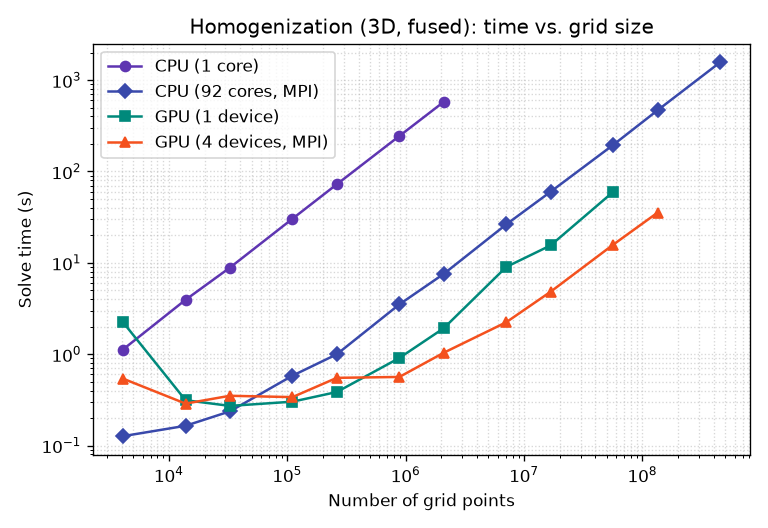
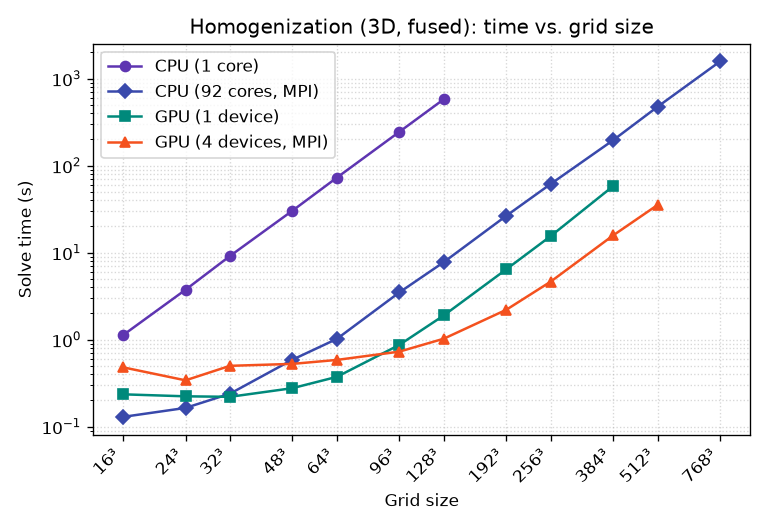
DOC: Updated benchmark scripts

diff --git a/examples/benchmark_homogenization_preconditioner.py b/examples/benchmark_homogenization_preconditioner.py
@@ -100,15 +100,10 @@ def run(device, precond, n, dim, maxiter, tol, nranks=1):
                 secs=r["total_time_seconds"])
 
 
-def collect(args, prov):
-    """Run both studies; return DB rows (does not write)."""
-    _, nb_gpus = db.detect_gpu()
-    want_gpu = not args.no_gpu and nb_gpus >= 1
-    configs = db.plan_configs(args.mpi_cpu_ranks, nb_gpus, want_gpu)
-    rows = []
+def collect_iterations(args, prov):
+    """Study `iterations`: CG count, none vs reference, on a single CPU core."""
     common = dict(maxiter=args.maxiter, tol=args.tol, dim=args.dim)
-
-    # Study 1: iterations (none vs reference), serial CPU.
+    rows = []
     for n in args.iter_sizes:
         for P in ("none", "reference"):
             r = run("cpu", P, n, args.dim, args.maxiter, args.tol)
@@ -121,12 +116,23 @@ def collect(args, prov):
                          "iters": r["iters"], "secs": r["secs"]})
             sys.stderr.write(f"  iter {P:9s} {n}^{args.dim} ({r['npts']} pts): "
                              f"{r['iters']:5d} it, {r['secs']:.3f} s\n")
+    return rows
 
-    # Study 2: reference-solve time across device/MPI configs. Each config
-    # sweeps grid sizes up to its own cap (a single CPU core tops out far sooner
-    # than the full node / the GPUs) and stops at the first out-of-memory size,
-    # which is recorded as an "oom" point (flagged in the table, dropped from the
-    # plot); larger sizes for that config are not attempted.
+
+def collect_timing(args, prov):
+    """Study `reference_timing`: reference-solve time across device/MPI configs.
+
+    Each config sweeps grid sizes up to its own cap (a single CPU core tops out
+    far sooner than the full node / the GPUs) and stops at the first
+    out-of-memory size, which is recorded as an "oom" point (flagged in the
+    table, dropped from the plot); larger sizes for that config are not
+    attempted.
+    """
+    _, nb_gpus = db.detect_gpu()
+    want_gpu = not args.no_gpu and nb_gpus >= 1
+    configs = db.plan_configs(args.mpi_cpu_ranks, nb_gpus, want_gpu)
+    common = dict(maxiter=args.maxiter, tol=args.tol, dim=args.dim)
+    rows = []
     for key, device, nranks in configs:
         label = db.CONFIG_META[key]["label"](nranks)
         cap = args.cpu1_max_size if key == "cpu1" else args.max_size
@@ -149,6 +155,16 @@ def collect(args, prov):
                          "iters": r["iters"], "secs": r["secs"]})
             sys.stderr.write(f"  time {label} {n}^{args.dim} ({r['npts']} pts): "
                              f"{r['iters']} it, {r['secs']:.3f} s\n")
+    return rows
+
+
+def collect(args, prov):
+    """Run the selected studies (`args.studies`); return DB rows (no write)."""
+    rows = []
+    if "iterations" in args.studies:
+        rows += collect_iterations(args, prov)
+    if "reference_timing" in args.studies:
+        rows += collect_timing(args, prov)
     return rows
 
 
@@ -404,6 +420,16 @@ def main():
     ap.add_argument("--no-gpu", action="store_true", help="Skip the GPU curves")
     ap.add_argument("--maxiter", type=int, default=20000)
     ap.add_argument("--tol", type=float, default=1e-6)
+    ap.add_argument("--studies", nargs="+",
+                    choices=["iterations", "reference_timing"],
+                    default=["iterations", "reference_timing"],
+                    help="Which studies to MEASURE (collection only). "
+                         "`iterations` = none-vs-reference CG count (1 CPU "
+                         "core); `reference_timing` = device/MPI solve-time "
+                         "scaling. Rendering always uses whatever is in the DB.")
+    ap.add_argument("--collect-only", action="store_true",
+                    help="Measure and append to the database, then stop "
+                         "(no plots/page — render later with --render-only)")
     ap.add_argument("--render-only", action="store_true",
                     help="Skip running; render from the database")
     ap.add_argument("--timestamp", default=None,
@@ -423,15 +449,23 @@ def main():
             sys.exit("No successful runs — nothing to record.")
         db.append_rows(rows, args.db)
         sys.stderr.write(f"appended {len(rows)} rows to {args.db}\n")
+        if args.collect_only:
+            return
         select_ts = prov["timestamp"]
     else:
         select_ts = args.timestamp
 
-    rows = db.select(db.load(args.db), BENCHMARK, select_ts)
+    # Take the latest run of EACH study independently, so the page combines the
+    # iteration-count study and the timing study even when they were measured by
+    # separate jobs (the two are split across separate submission scripts).
+    rows = db.select_studies(db.load(args.db), BENCHMARK,
+                             ["iterations", "reference_timing"], select_ts)
     if not rows:
         sys.exit("No matching rows in the database.")
 
-    meta = {k: rows[0][k] for k in ("cpu", "gpu", "version", "timestamp")}
+    # Machine/version box: prefer the (heavier) timing run when present.
+    meta_rows = [r for r in rows if r["study"] == "reference_timing"] or rows
+    meta = {k: meta_rows[0][k] for k in ("cpu", "gpu", "version", "timestamp")}
     dim = next((r["dim"] for r in rows), args.dim)
     tol = next((r["tol"] for r in rows if r["study"] == "iterations"), args.tol)
     configs = db.render_configs(rows, "reference_timing")

diff --git a/examples/benchmark_db.py b/examples/benchmark_db.py
@@ -210,12 +210,21 @@ CONFIG_ORDER = ["cpu1", "cpuN", "gpu1", "gpuN"]
 
 
 def plan_configs(ncores, nb_gpus, want_gpu):
-    """Configs to RUN on this machine: list of (key, device, nranks)."""
-    cfgs = [("cpu1", "cpu", 1), ("cpuN", "cpu", ncores)]
-    if want_gpu and nb_gpus >= 1:
-        cfgs.append(("gpu1", "gpu", 1))
+    """Configs to RUN on this machine, FASTEST FIRST: list of (key, device,
+    nranks).
+
+    Ordered multi-GPU, single GPU, full-node MPI, single CPU core — so the
+    quickest configurations are measured first and the slow single core (the one
+    most likely to be cut off by a wall-clock limit) comes last. Rendering
+    re-sorts by `CONFIG_ORDER`, so this only affects execution order.
+    """
+    cfgs = []
     if want_gpu and nb_gpus > 1:
         cfgs.append(("gpuN", "gpu", nb_gpus))
+    if want_gpu and nb_gpus >= 1:
+        cfgs.append(("gpu1", "gpu", 1))
+    cfgs.append(("cpuN", "cpu", ncores))
+    cfgs.append(("cpu1", "cpu", 1))
     return cfgs
 
 
@@ -344,3 +353,27 @@ def select(rows, benchmark, timestamp=None):
         target = max(r["timestamp"] for r in sub)
         return [r for r in sub if r["timestamp"] == target]
     return [r for r in sub if r["timestamp"].startswith(timestamp)]
+
+
+def select_studies(rows, benchmark, studies, timestamp=None):
+    """Rows for the given studies of a benchmark, each from its OWN latest run.
+
+    Unlike `select`, which pins every row to a single run, this picks the most
+    recent run *per study* independently (or, with `timestamp`, the run whose
+    timestamp starts with the given string). A page that combines several
+    studies (e.g. the preconditioner's iteration-count and timing studies) can
+    therefore show the freshest data for each, even when the studies were
+    measured by separate jobs that ran at different times.
+    """
+    out = []
+    for study in studies:
+        sub = [r for r in rows
+               if r["benchmark"] == benchmark and r["study"] == study]
+        if not sub:
+            continue
+        if timestamp is None:
+            target = max(r["timestamp"] for r in sub)
+            out.extend(r for r in sub if r["timestamp"] == target)
+        else:
+            out.extend(r for r in sub if r["timestamp"].startswith(timestamp))
+    return out

diff --git a/examples/benchmark_homogenization.py b/examples/benchmark_homogenization.py
@@ -326,6 +326,9 @@ def main():
                     help="Ranks for the full-machine MPI CPU curve")
     ap.add_argument("--no-gpu", action="store_true", help="Skip the GPU curves")
     ap.add_argument("--maxiter", type=int, default=100)
+    ap.add_argument("--collect-only", action="store_true",
+                    help="Measure and append to the database, then stop "
+                         "(no plot/page — render later with --render-only)")
     ap.add_argument("--render-only", action="store_true",
                     help="Skip running; render from the database")
     ap.add_argument("--timestamp", default=None,
@@ -345,6 +348,8 @@ def main():
             sys.exit("No successful runs — nothing to record.")
         db.append_rows(rows, args.db)
         sys.stderr.write(f"appended {len(rows)} rows to {args.db}\n")
+        if args.collect_only:
+            return
         select_ts = prov["timestamp"]
     else:
         select_ts = args.timestamp

diff --git a/benchmarks/README.md b/benchmarks/README.md
@@ -41,21 +41,42 @@ Current `benchmark`/`study` values:
 
 ## Workflow
 
+Measuring (which appends a new dated run to the DB) and rendering the pages are
+**separate steps**, and the measurements are split into three independent cases,
+one SLURM job each:
+
+| script | case | study appended |
+|---|---|---|
+| `job_compare_preconditioner.sh` | unpreconditioned vs reference, CG iteration count (1 CPU core) | `homogenization_preconditioner` / `iterations` |
+| `job_scaling_unpreconditioned.sh` | unpreconditioned solve time, device/MPI scaling | `homogenization` / `time_vs_size` |
+| `job_scaling_preconditioned.sh` | reference-preconditioned solve time, device/MPI scaling | `homogenization_preconditioner` / `reference_timing` |
+
 ```bash
-# Measure (appends a new dated run) and regenerate the page:
-python examples/benchmark_homogenization.py \
-    --doc-out docs/benchmark_homogenization.md
-python examples/benchmark_homogenization_preconditioner.py \
-    --doc-out docs/benchmark_homogenization_preconditioner.md
+# 1. Measure — submit any subset of the three cases (each appends to the DB):
+sbatch benchmarks/job_compare_preconditioner.sh
+sbatch benchmarks/job_scaling_unpreconditioned.sh
+sbatch benchmarks/job_scaling_preconditioned.sh
 
-# Re-render a page from the latest run already in the DB (no measuring):
-python examples/benchmark_homogenization.py --render-only \
-    --doc-out docs/benchmark_homogenization.md
+# 2. Render ALL pages and plots from the DB (no measuring; runs on the head
+#    node). The preconditioner page combines the latest run of each of its two
+#    studies, so cases 1 and 3 can come from separate jobs:
+benchmarks/make_docs.sh
 
-# Then commit the updated database and pages:
+# 3. Commit the updated database and pages:
 git add benchmarks/results.csv docs/benchmark_*
 ```
 
-The shared helpers (schema, provenance capture, CSV I/O, device/MPI config
-vocabulary) live in `examples/benchmark_db.py`; new benchmarks should import it
-and append rows with the same schema.
+The job scripts only collect data (they pass `--collect-only` to the drivers,
+which can also restrict to a single `--studies` value). To re-render a single
+page directly without `make_docs.sh`:
+
+```bash
+python examples/benchmark_homogenization.py --render-only \
+    --doc-out docs/benchmark_homogenization.md
+```
+
+Shared SLURM/toolchain setup for all four scripts lives in `benchmarks/_env.sh`
+(sourced, not submitted). The shared Python helpers (schema, provenance capture,
+CSV I/O, device/MPI config vocabulary, per-study selection) live in
+`examples/benchmark_db.py`; new benchmarks should import it and append rows with
+the same schema.

diff --git a/docs/benchmark_homogenization.md b/docs/benchmark_homogenization.md
@@ -7,7 +7,7 @@ grid sizes. Lower is better.
 !!! info "Test machine & code version"
     - **CPU:** AMD Instinct MI300A Accelerator (192 logical cores)
     - **GPU:** 4x AMD Instinct MI300A
-    - **muGrid:** `0.109.0-55-g0d9153f6-dirty` — run 2026-06-28T00:15:03
+    - **muGrid:** `0.109.0-65-gf3ef7b08` — run 2026-06-28T22:18:45
 
 Run configuration: 3D single spherical inclusion, fused stiffness kernel,
 6 load cases, fixed `100` CG iterations per load case — i.e. a **fixed work
@@ -33,14 +33,14 @@ dropped from the plot, and larger sizes for that configuration are not attempted
 
 | Configuration | 16³ (4k) | 24³ (14k) | 32³ (33k) | 48³ (111k) | 64³ (262k) | 96³ (885k) | 128³ (2.1M) | 192³ (7.1M) | 256³ (16.8M) | 384³ (56.6M) | 512³ (134.2M) | 768³ (453.0M) |
 |---|---|---|---|---|---|---|---|---|---|---|---|---|
-| CPU (1 core) | 1.13 | 3.94 | 8.86 | 30.4 | 72.4 | 245 | 578 | — | — | — | — | — |
-| CPU (92 cores, MPI) | 0.127 | 0.164 | 0.237 | 0.582 | 0.998 | 3.51 | 7.57 | 26.3 | 60.1 | 196 | 468 | 1.57e+03 |
-| GPU (1 device) | 2.24 | 0.313 | 0.272 | 0.302 | 0.385 | 0.909 | 1.92 | 9.02 | 15.5 | 59.9 | OOM | — |
-| GPU (4 devices, MPI) | 0.54 | 0.288 | 0.35 | 0.339 | 0.551 | 0.563 | 1.04 | 2.24 | 4.83 | 15.8 | 35.4 | OOM |
+| CPU (1 core) | 1.12 | 3.74 | 9.13 | 30.3 | 72.6 | 244 | 578 | — | — | — | — | — |
+| CPU (92 cores, MPI) | 0.129 | 0.164 | 0.239 | 0.588 | 1.02 | 3.49 | 7.77 | 26.5 | 61.4 | 196 | 474 | 1.58e+03 |
+| GPU (1 device) | 0.235 | 0.223 | 0.22 | 0.277 | 0.373 | 0.87 | 1.89 | 6.43 | 15.5 | 58.2 | OOM | — |
+| GPU (4 devices, MPI) | 0.48 | 0.34 | 0.499 | 0.526 | 0.584 | 0.728 | 1.02 | 2.2 | 4.64 | 15.8 | 35.3 | OOM |
 
 (values are **solve time in seconds**; `OOM` = the run ran out of memory)
 
-![Homogenization solve time vs. number of grid points](benchmark_homogenization.png)
+![Homogenization solve time vs. grid size](benchmark_homogenization.png)
 
 A single CPU core is quickly left behind, so the fair comparison is the full CPU
 (all 92 cores via MPI) against the GPU(s). The GPU leads in the mid-range,